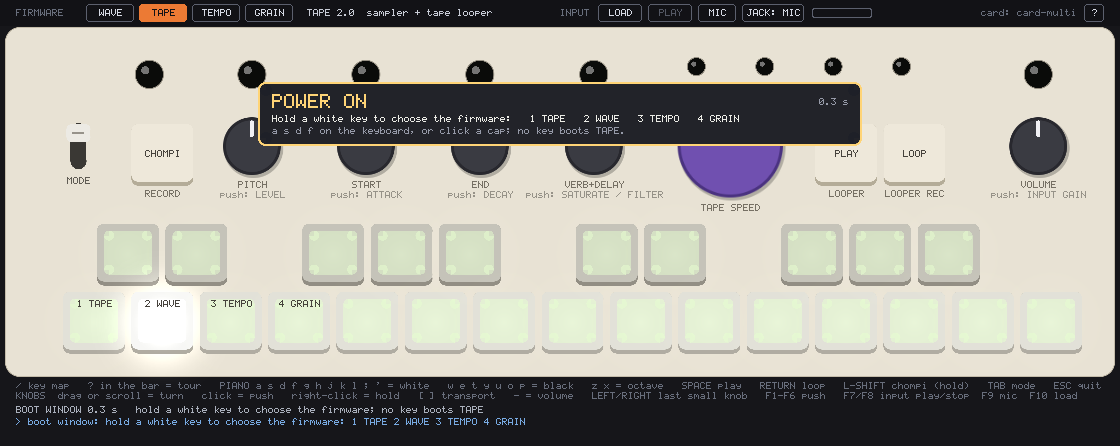
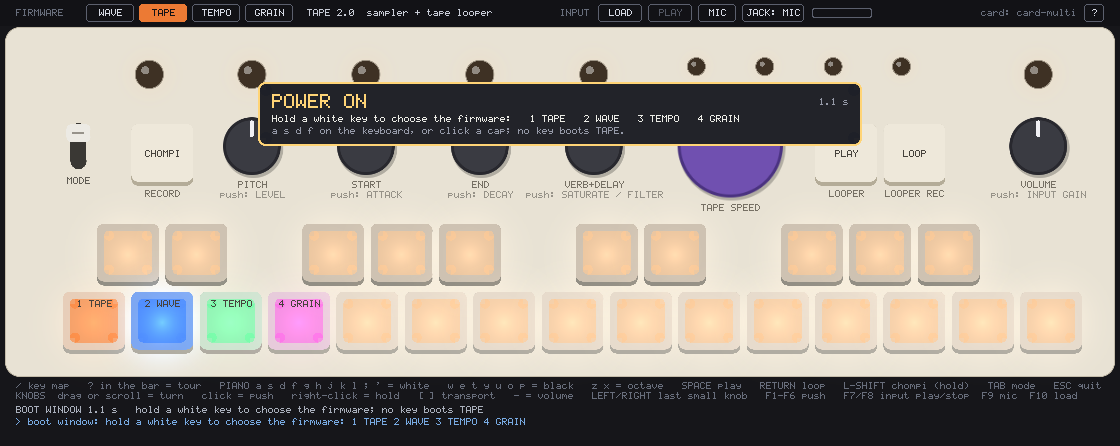
Boot window: the caps that pick a firmware light in its colour
During the boot window of a shared card the first white caps light in
their firmware's colour (TAPE orange, WAVE blue, TEMPO green, GRAIN
magenta) with its name on them; once one is chosen the others dim. The
rest of the LEDs keep the bootloader's fade. Screenshot and README
updated.

Claude-Session: https://claude.ai/code/session_01Dp3X1K9YrRtikm9LtFwPLs

diff --git a/frontends/sdl/panel.cpp b/frontends/sdl/panel.cpp
@@ -469,14 +469,20 @@ int WhiteIndex(int semi)
     return n;
 }
 
-/** A key's LED: the firmware's, or the boot window's fade with the chosen cap lit white. */
+/** A key's LED: the firmware's, or in the boot window the bootloader's fade,
+ *  except on the caps that pick a firmware: each lights in its firmware's
+ *  colour, and once one is chosen the others dim. */
 Rgb KeyLedColour(const UiState& st, int semi)
 {
     if(!st.boot_window)
         return Sim::Get().KeyLed(kPianoKeyLed[semi]);
     const int w = WhiteIndex(semi);
-    if(w >= 0 && w == st.boot_choice)
-        return Rgb{255, 255, 255};
+    if(w >= 0 && w < int(st.boot_slots.size()) && !st.boot_slots[size_t(w)].empty())
+    {
+        const Rgb   c   = st.boot_slot_leds[size_t(w)];
+        const float dim = st.boot_choice < 0 || st.boot_choice == w ? 1.f : 0.28f;
+        return Rgb{uint8_t(c.r * dim), uint8_t(c.g * dim), uint8_t(c.b * dim)};
+    }
     return st.boot_led;
 }
 Rgb PanelLedColour(const UiState& st, int i)

diff --git a/frontends/sdl/panel.h b/frontends/sdl/panel.h
@@ -80,6 +80,7 @@ struct UiState
     bool                                         boot_window = false; /**< the simulated bootloader is waiting for a key to pick the firmware */
     chompi_sim::Rgb                              boot_led{};      /**< every LED shows this while the boot window is up */
     std::array<std::string, 4>                   boot_slots{};    /**< firmware names on the first four white caps ("" = none) */
+    std::array<chompi_sim::Rgb, 4>               boot_slot_leds{}; /**< the colour each of those caps lights in: its firmware's */
     int                                          boot_choice = -1; /**< the slot picked so far, or -1 */
     std::string                                  boot_default;    /**< the firmware that boots with no key held */
     float                                        boot_left = 0.f; /**< seconds left in the window */

diff --git a/frontends/sdl/main.cpp b/frontends/sdl/main.cpp
@@ -481,7 +481,11 @@ class App
         {
             const std::string& id = BootOrder()[i];
             if(std::find(on_card_.begin(), on_card_.end(), id) != on_card_.end())
-                ui_.boot_slots[i] = gui::FirmwareByName(id).name[0] ? gui::FirmwareByName(id).name : id;
+            {
+                const gui::FirmwareInfo& info = gui::FirmwareByName(id);
+                ui_.boot_slots[i]             = info.name[0] ? info.name : id;
+                ui_.boot_slot_leds[i]         = Rgb{info.accent.r, info.accent.g, info.accent.b}; // the cap lights in the firmware's colour
+            }
         }
         ui_.boot_default = gui::FirmwareByName(ui_.firmware).name; // no key: the one the launcher picked
 

diff --git a/README.md b/README.md
@@ -382,10 +382,12 @@ bootloader's sources):
   TAPE is left alone: it opens its files by name in the root, and its build
   has no room to spare.
 - Starting the window on a shared card opens a boot window first: the LEDs
-  fade through random colours, as the bootloader's do, the first white caps
-  carry the firmware names, and for 2.5 seconds a held white key, or a click
-  on one of those caps, picks the firmware: 1 TAPE, 2 WAVE, 3 TEMPO, 4
-  GRAIN. With no key the window boots what the launcher picked: the last
+  fade through random colours, as the bootloader's do, except the first white
+  caps, which light in their firmware's colour with its name on them (TAPE
+  orange, WAVE blue, TEMPO green, GRAIN magenta); for 2.5 seconds a held
+  white key, or a click on one of those caps, picks the firmware: 1 TAPE, 2
+  WAVE, 3 TEMPO, 4 GRAIN, and the other caps dim once one is chosen. With no
+  key the window boots what the launcher picked: the last
   choice, remembered in `boot_choice.txt` in the card's root, else the first
   in that order. Another choice relaunches into that firmware's executable
   with `--booted`, which skips the window; the firmware tabs do the same.
